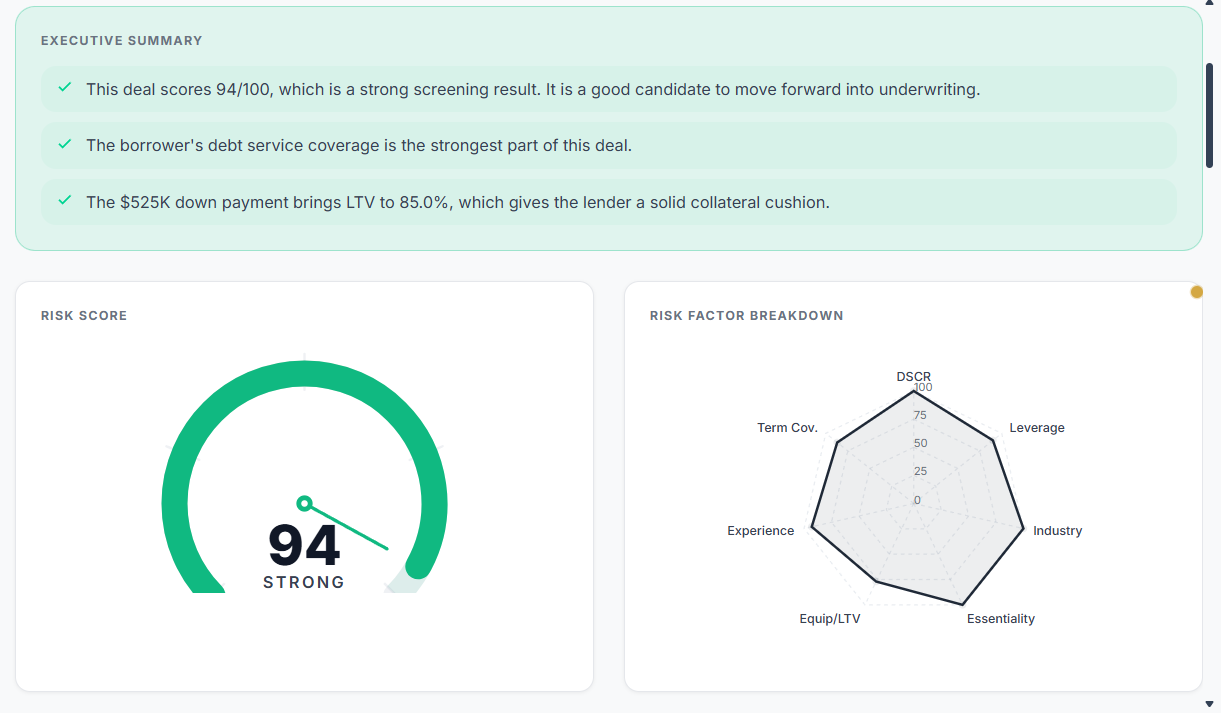
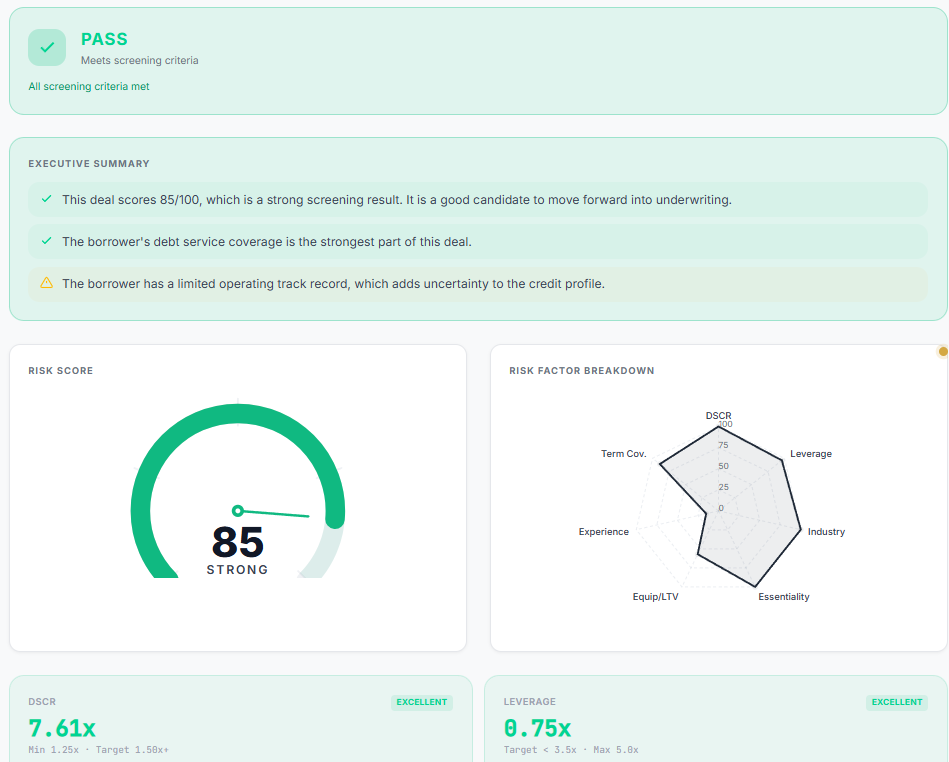
Deal templates: save/load reusable form configurations + updated screenshot
- Templates dropdown in toolbar: save current form state as named template
- Templates stored in user_preferences.deal_templates
- Load template: populates form, switches module if needed
- Delete template: hover to reveal delete button
- Templates persist across sessions via Supabase
- Updated landing page screenshot with full light theme view

diff --git a/src/App.js b/src/App.js
@@ -317,12 +317,17 @@ function AuthenticatedApp({ profile, user }) {
         if (draft.activeDeal !== undefined) setActiveDeal(draft.activeDeal);
         if (Array.isArray(draft.recentDeals)) setRecentDeals(draft.recentDeals);
       }
+      if (Array.isArray(data?.deal_templates)) {
+        setDealTemplates(data.deal_templates);
+      }
     });
     // eslint-disable-next-line react-hooks/exhaustive-deps
   }, [userId]);
 
   // Debounced save draft state to Supabase (2s delay)
   const [draftStatus, setDraftStatus] = useState(null); // null | 'saving' | 'saved'
+  const [dealTemplates, setDealTemplates] = useState([]);
+  const [showTemplateMenu, setShowTemplateMenu] = useState(false);
   useEffect(() => {
     if (!userId) return;
     setDraftStatus('saving');
@@ -563,6 +568,76 @@ function AuthenticatedApp({ profile, user }) {
             {activeTab === 'screening' && (
               <>
                 <div className="ml-auto flex items-center gap-2">
+                  {/* Templates */}
+                  <div className="relative">
+                    <button
+                      onClick={() => setShowTemplateMenu(!showTemplateMenu)}
+                      className="pill-btn px-3 py-2 rounded-lg text-[11px] font-medium text-gray-500 hover:text-gray-700 flex items-center gap-1.5"
+                    >
+                      <svg width="12" height="12" viewBox="0 0 24 24" fill="none" stroke="currentColor" strokeWidth="2">
+                        <rect x="3" y="3" width="18" height="18" rx="2" ry="2" />
+                        <line x1="3" y1="9" x2="21" y2="9" />
+                        <line x1="9" y1="21" x2="9" y2="9" />
+                      </svg>
+                      Templates
+                    </button>
+                    {showTemplateMenu && (
+                      <>
+                        <div className="fixed inset-0 z-40" onClick={() => setShowTemplateMenu(false)} />
+                        <div className="absolute top-full right-0 mt-2 py-2 w-56 bg-white border border-gray-200 rounded-xl shadow-xl z-50 animate-fade-in">
+                          {/* Save current as template */}
+                          {inputs.companyName && (
+                            <button
+                              onClick={() => {
+                                const name = prompt('Template name:', `${inputs.industrySector || 'Deal'} Template`);
+                                if (!name) return;
+                                const newTemplates = [...dealTemplates, { name, inputs: { ...inputs }, module: activeModule, created: Date.now() }];
+                                setDealTemplates(newTemplates);
+                                upsertPreferences(userId, { deal_templates: newTemplates });
+                                setShowTemplateMenu(false);
+                                addToast('Template saved', 'success');
+                              }}
+                              className="w-full text-left px-4 py-2 text-[12px] text-gray-700 hover:bg-gray-50 transition-colors"
+                            >
+                              Save current as template
+                            </button>
+                          )}
+                          {dealTemplates.length > 0 && <div className="border-t border-gray-100 my-1" />}
+                          {dealTemplates.map((t, i) => (
+                            <div key={i} className="flex items-center justify-between px-4 py-1.5 hover:bg-gray-50 group">
+                              <button
+                                onClick={() => {
+                                  if (t.module && t.module !== activeModule) {
+                                    handleModuleChange(t.module);
+                                  }
+                                  setInputs(t.inputs);
+                                  setShowTemplateMenu(false);
+                                }}
+                                className="text-[12px] text-gray-600 truncate flex-1 text-left"
+                              >
+                                {t.name}
+                              </button>
+                              <button
+                                onClick={() => {
+                                  const updated = dealTemplates.filter((_, j) => j !== i);
+                                  setDealTemplates(updated);
+                                  upsertPreferences(userId, { deal_templates: updated });
+                                }}
+                                className="text-gray-300 hover:text-rose-400 opacity-0 group-hover:opacity-100 transition-all ml-2"
+                              >
+                                <svg width="10" height="10" viewBox="0 0 24 24" fill="none" stroke="currentColor" strokeWidth="2.5">
+                                  <line x1="18" y1="6" x2="6" y2="18" /><line x1="6" y1="6" x2="18" y2="18" />
+                                </svg>
+                              </button>
+                            </div>
+                          ))}
+                          {dealTemplates.length === 0 && !inputs.companyName && (
+                            <p className="px-4 py-2 text-[11px] text-gray-400">No templates saved. Fill in a deal form to save one.</p>
+                          )}
+                        </div>
+                      </>
+                    )}
+                  </div>
                   {valid && <ExportPanel summaryText={summaryText} inputs={inputs} metrics={metrics} riskScore={riskScore} recommendation={recommendation} screeningResult={screeningResult} profile={profile} moduleLabel={moduleLabel} />}
                   {activePipelineDealId && valid && (
                     <button
